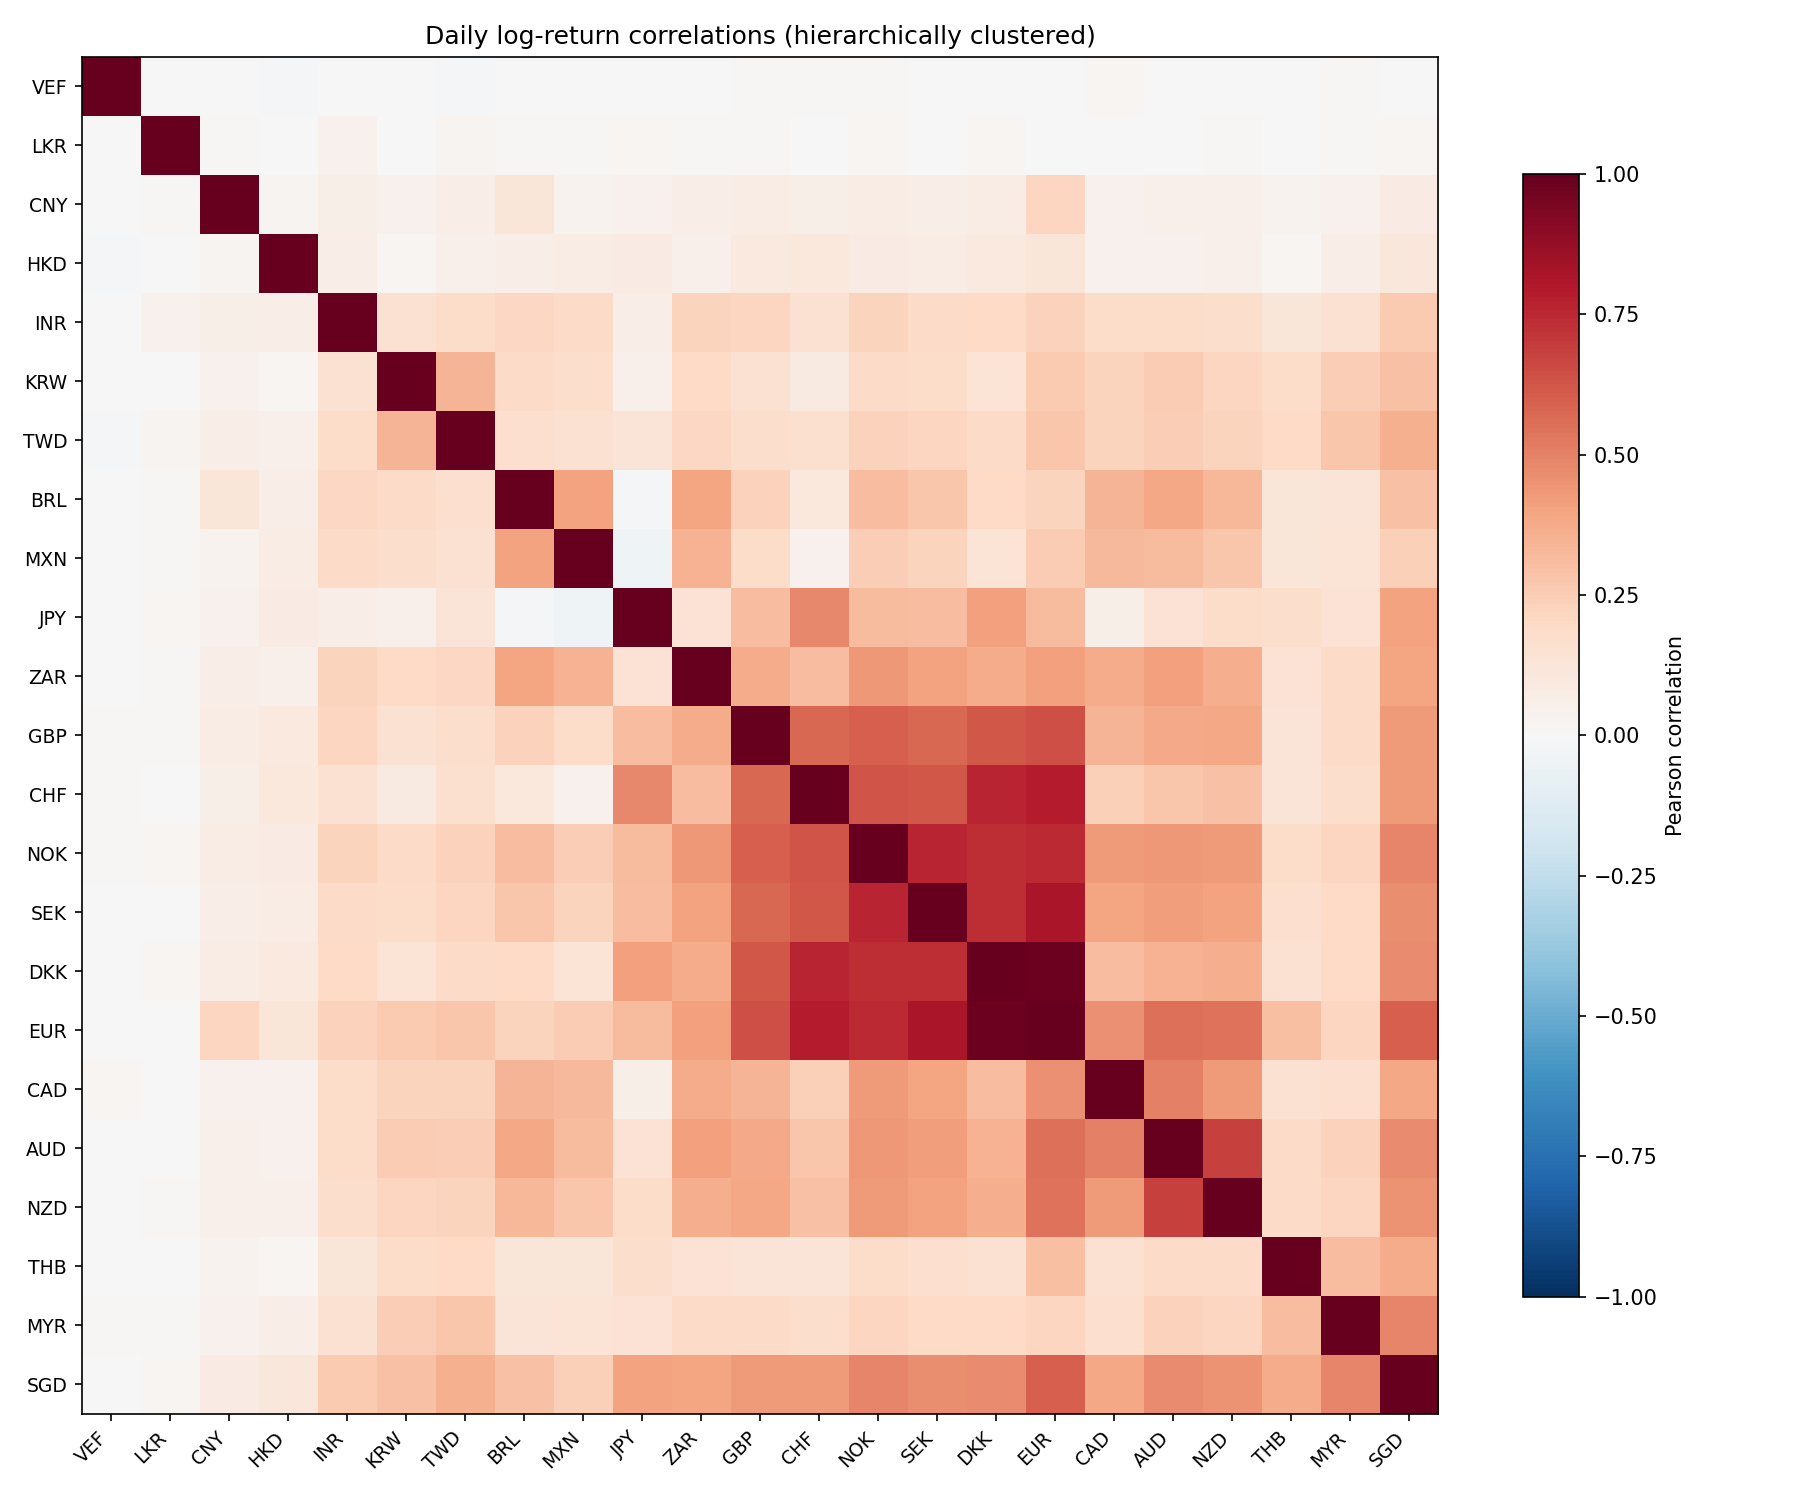
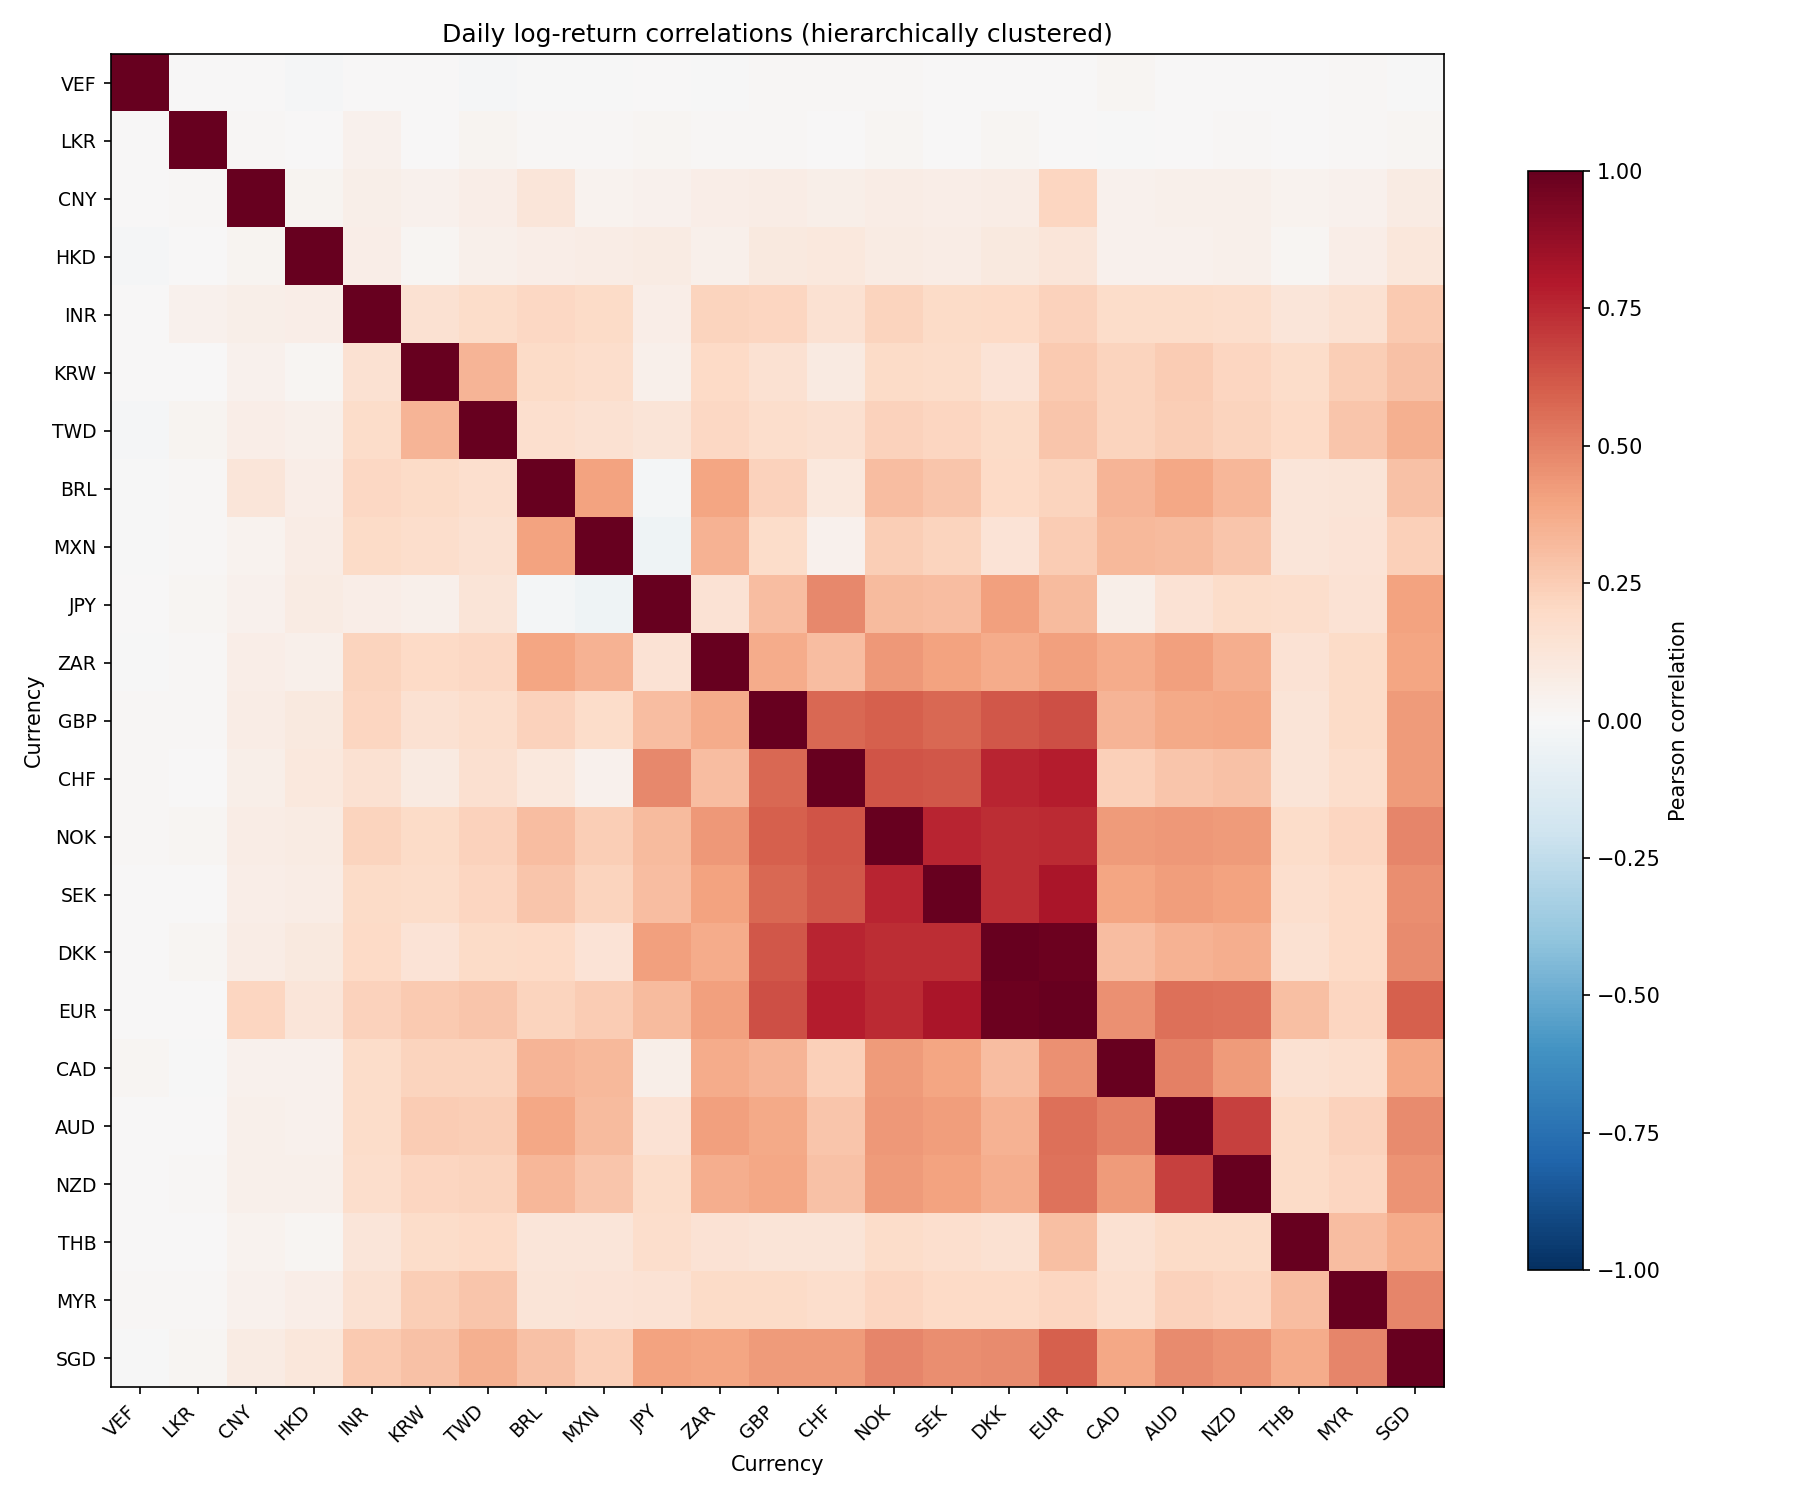
Make weekly update resilient: per-source failures warn, data is committed back
- update_sources.py: a missing FRED_API_KEY or a failing source is reported
  (as a GitHub ::warning:: in Actions) and the remaining sources still
  update; exit non-zero only if every requested source failed.
- Workflow: validate step no longer dies under bash -e on warnings-only
  exit code 1; updated data and charts are committed back to main before
  the tarball release; actions bumped off deprecated Node 20.
- README: build status and last-data-update badges.
- Regenerated charts.

diff --git a/scripts/update_sources.py b/scripts/update_sources.py
@@ -152,13 +152,17 @@ FRED_SERIES = {
 }
 
 
+class SourceSkipped(Exception):
+    """A source could not run (e.g. missing credentials); others continue."""
+
+
 def update_fred():
     """Update all 25 FRED daily CSV files."""
     api_key = os.environ.get("FRED_API_KEY")
     if not api_key:
-        print("ERROR: FRED_API_KEY environment variable not set.")
-        print("Get a free key at https://fred.stlouisfed.org/docs/api/api_key.html")
-        sys.exit(1)
+        raise SourceSkipped(
+            "FRED_API_KEY not set; get a free key at "
+            "https://fred.stlouisfed.org/docs/api/api_key.html")
 
     dest_dir = SOURCES / "fred" / "daily"
     print(f"Updating {len(FRED_SERIES)} FRED series...")
@@ -1262,11 +1266,27 @@ def main():
         parser.print_help()
         sys.exit(1)
 
+    # One failing source must not block the others: run each, then report.
+    # In GitHub Actions, problems are surfaced as ::warning:: annotations.
+    problems = []
     for name, func, _ in ALL_SOURCES:
         if flags[name] or args.all:
-            func()
+            try:
+                func()
+            except SourceSkipped as e:
+                problems.append((name, f"skipped: {e}"))
+            except Exception as e:  # noqa: BLE001 - report and continue
+                problems.append((name, f"failed: {type(e).__name__}: {e}"))
 
-    print("\nDone.")
+    gha = os.environ.get("GITHUB_ACTIONS") == "true"
+    for name, msg in problems:
+        print(f"::warning title=update_sources {name}::{msg}" if gha
+              else f"WARNING {name}: {msg}")
+    print(f"\nDone. {len(problems)} source(s) with problems.")
+    # Exit non-zero only when nothing at all could be updated.
+    ran = sum(1 for n, _, _ in ALL_SOURCES if flags[n] or args.all)
+    if problems and len(problems) == ran:
+        sys.exit(1)
 
 
 if __name__ == "__main__":

diff --git a/README.md b/README.md
@@ -1,5 +1,7 @@
 # forex-centuries
 
+[![Weekly data update](https://github.com/unbalancedparentheses/forex-centuries/actions/workflows/update-data.yml/badge.svg)](https://github.com/unbalancedparentheses/forex-centuries/actions/workflows/update-data.yml) [![Last data update](https://img.shields.io/github/release-date/unbalancedparentheses/forex-centuries?label=last%20data%20update)](https://github.com/unbalancedparentheses/forex-centuries/releases/latest)
+
 The most comprehensive open-source collection of long-run financial and economic data available. 27 sources, 1,100+ files, ~240 countries, spanning twenty centuries (1 CE-2026). Exchange rates, gold, silver, interest rates, commodity prices, CPI, GDP per capita, real wages, sovereign debt, regime classifications, and real effective exchange rates — with an automated build pipeline, weekly CI updates, and reproducible analysis.
 
 No other free repository combines this breadth of asset classes across this depth of history. The only comparable product is [Global Financial Data](https://globalfinancialdata.com/) (commercial, institutional pricing). The closest open alternative, the [Global Macro Database](https://www.globalmacrodata.com/) (111 sources, 46 variables), covers macroeconomic aggregates but has no gold, silver, commodity prices, interest rate series spanning centuries, medieval exchange rates, daily FX, or crisis indices.
